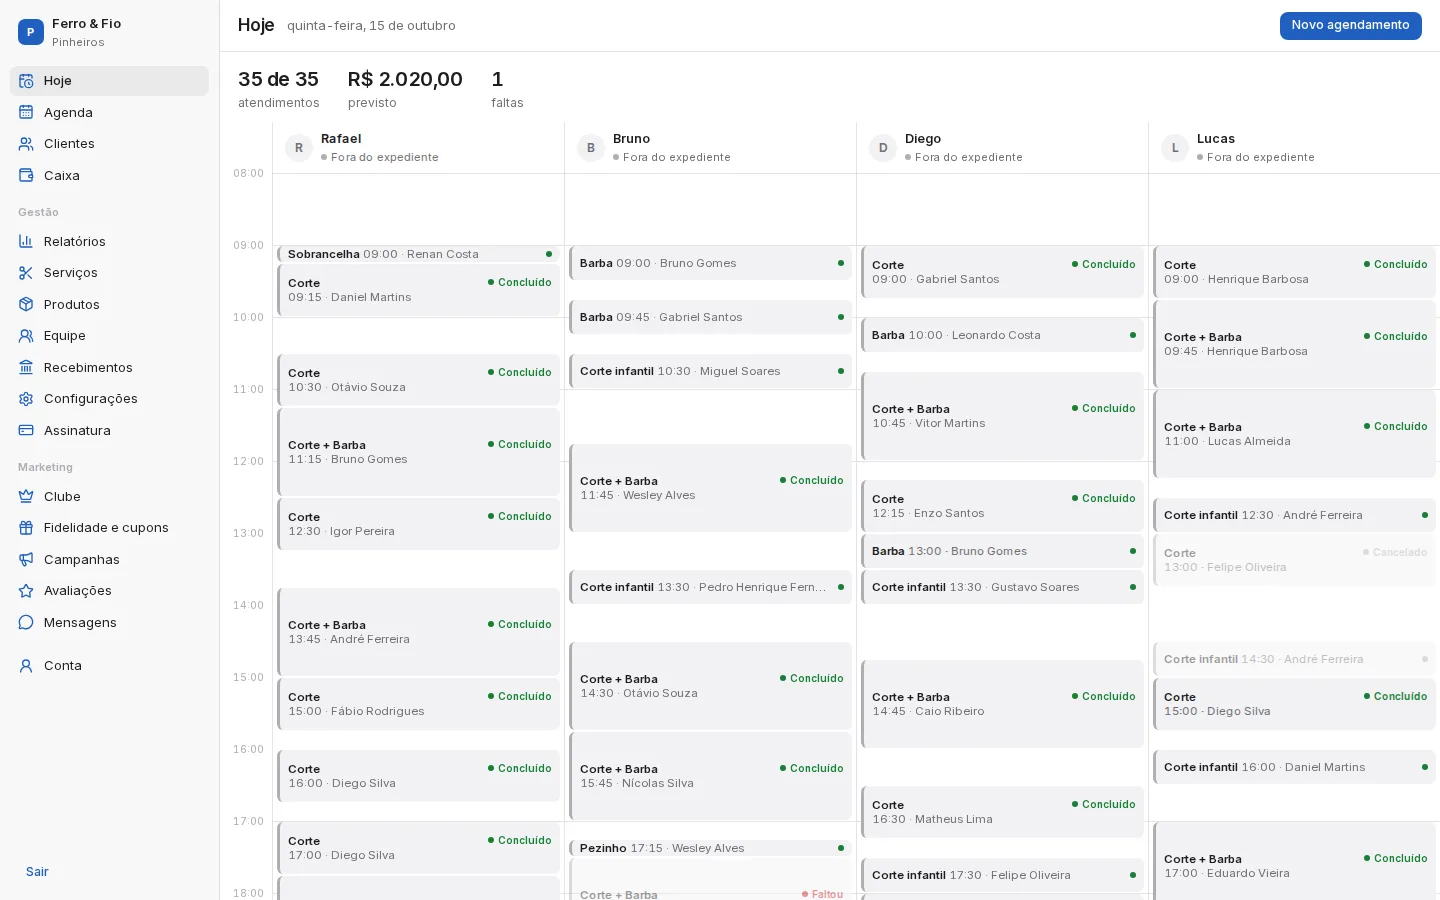
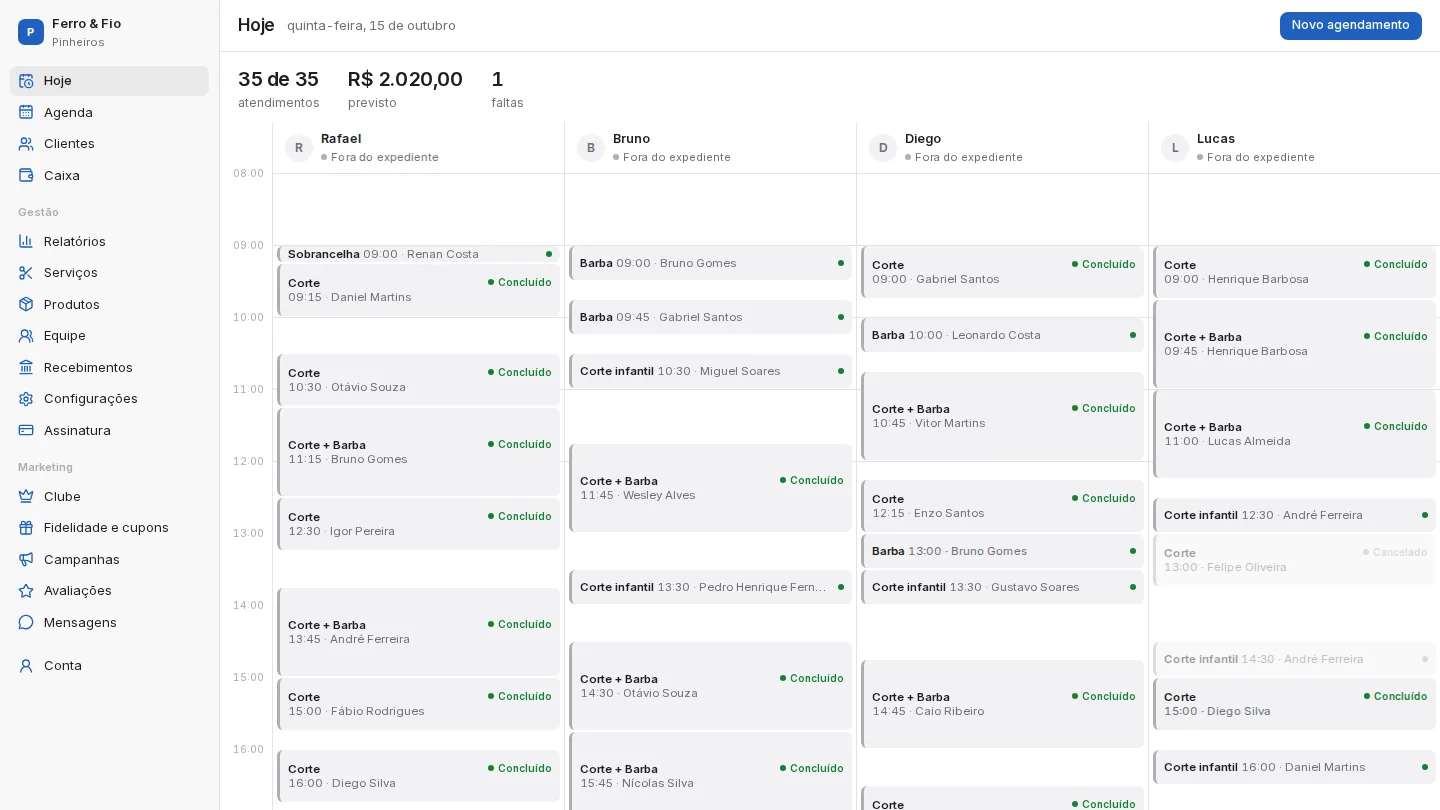
PORTFOLIO | FEAT | modal de projeto em duas colunas sem rolagem e capturas do NavalhaGo e FinanceMy em 16:9

diff --git a/src/components/landing/sections.tsx b/src/components/landing/sections.tsx
@@ -120,12 +120,15 @@ function ProjectModal({ project, onClose }: { project: Project; onClose: () => v
     };
   }, [onClose]);
 
+  // Telas baixas (notebook 768px de altura): texto um degrau menor para tudo caber sem rolar.
+  const short = "[@media(max-height:820px)]";
+
   return (
     <motion.div
       initial={{ opacity: 0 }}
       animate={{ opacity: 1 }}
       exit={{ opacity: 0 }}
-      className="fixed inset-0 z-50 flex items-center justify-center bg-black/50 p-4 backdrop-blur-sm md:p-8"
+      className="fixed inset-0 z-50 flex items-center justify-center bg-black/55 p-4 backdrop-blur-sm md:p-8"
       onClick={onClose}
     >
       <motion.div
@@ -136,44 +139,53 @@ function ProjectModal({ project, onClose }: { project: Project; onClose: () => v
         animate={{ opacity: 1, y: 0, scale: 1 }}
         exit={reduced ? { opacity: 0 } : { opacity: 0, y: 20, scale: 0.98 }}
         transition={{ duration: 0.28, ease: [0.22, 1, 0.36, 1] }}
-        className="max-h-full w-full max-w-3xl overflow-y-auto rounded-3xl border border-line bg-(--landing-card) shadow-2xl shadow-black/30"
+        // lg+: imagem à esquerda, informações à direita, sem rolagem; no celular empilha
+        className="relative max-h-full w-full max-w-3xl overflow-y-auto rounded-3xl border border-line bg-(--landing-card) shadow-2xl shadow-black/30 lg:grid lg:max-h-[92dvh] lg:w-[min(1360px,96vw)] lg:max-w-none lg:grid-cols-[minmax(0,0.95fr)_minmax(0,1.05fr)] lg:overflow-hidden xl:grid-cols-[minmax(0,1.2fr)_minmax(0,1fr)] 2xl:grid-cols-[minmax(0,1.45fr)_minmax(0,1fr)]"
         onClick={(e) => e.stopPropagation()}
       >
+        <button
+          type="button"
+          onClick={onClose}
+          data-cursor="hover"
+          aria-label={t("landing.projects.close")}
+          className="absolute top-3 right-3 z-10 flex h-9 w-9 items-center justify-center rounded-full bg-black/55 text-white backdrop-blur transition-transform hover:scale-105"
+        >
+          <X className="h-4.5 w-4.5" />
+        </button>
+
         {project.image && (
-          <div className="relative aspect-video w-full overflow-hidden border-b border-line bg-fill-1">
-            {/* eslint-disable-next-line @next/next/no-img-element */}
-            <img
-              src={project.image}
-              alt={`${project.name} — ${project.tagline[lang]}`}
-              className="h-full w-full object-contain"
-            />
-            <button
-              type="button"
-              onClick={onClose}
-              data-cursor="hover"
-              aria-label={t("landing.projects.close")}
-              className="absolute top-3 right-3 flex h-9 w-9 items-center justify-center rounded-full bg-black/55 text-white backdrop-blur transition-transform hover:scale-105"
-            >
-              <X className="h-4.5 w-4.5" />
-            </button>
+          <div className="flex items-center justify-center border-b border-line bg-[#0b0c10] lg:border-r lg:border-b-0 lg:p-5 xl:p-8">
+            <div className="relative aspect-video w-full overflow-hidden lg:rounded-xl lg:shadow-2xl lg:shadow-black/50">
+              {/* eslint-disable-next-line @next/next/no-img-element */}
+              <img
+                src={project.image}
+                alt={`${project.name} — ${project.tagline[lang]}`}
+                className="absolute inset-0 h-full w-full object-contain"
+              />
+            </div>
           </div>
         )}
-        <div className="p-6 md:p-8">
+
+        <div className={`flex flex-col p-6 md:p-8 lg:min-h-0 lg:px-7 lg:py-8 lg:pr-12 xl:py-9 ${short}:lg:py-5`}>
           <div className="flex flex-wrap items-center gap-3 font-mono text-[11px] tracking-[0.15em] text-text-lo uppercase">
             <span>
               {project.year} · {project.category === "web" ? "Web" : "Mobile"}
             </span>
             {project.status === "wip" && <WipBadge />}
           </div>
-          <h3 className="mt-3 font-display text-3xl font-semibold tracking-tight">{project.name}</h3>
+          <h3 className={`mt-3 font-display text-3xl font-semibold tracking-tight lg:text-4xl ${short}:lg:text-3xl`}>
+            {project.name}
+          </h3>
           <p className="mt-1 text-sm text-text-lo">{project.tagline[lang]}</p>
 
-          <p className="mt-5 leading-relaxed text-text-lo">{project.description[lang]}</p>
+          <p className={`mt-5 leading-relaxed text-text-lo lg:text-[15px] ${short}:lg:mt-3 ${short}:lg:text-sm ${short}:lg:leading-normal`}>
+            {project.description[lang]}
+          </p>
 
           {project.highlights && (
-            <ul className="mt-6 space-y-2.5">
+            <ul className={`mt-5 space-y-2 ${short}:lg:mt-3 ${short}:lg:space-y-1`}>
               {project.highlights.map((h, i) => (
-                <li key={i} className="flex gap-2.5 text-sm leading-relaxed text-text-lo">
+                <li key={i} className={`flex gap-2.5 text-sm leading-relaxed text-text-lo ${short}:lg:text-[13px] ${short}:lg:leading-snug`}>
                   <span className="mt-[7px] h-1.5 w-1.5 shrink-0 rounded-full bg-fx" aria-hidden />
                   <span>{h[lang]}</span>
                 </li>
@@ -181,13 +193,13 @@ function ProjectModal({ project, onClose }: { project: Project; onClose: () => v
             </ul>
           )}
 
-          <div className="mt-6 flex flex-wrap gap-1.5">
+          <div className={`mt-5 flex flex-wrap gap-1.5 ${short}:lg:mt-3`}>
             {project.stack.map((s) => (
               <Chip key={s}>{s}</Chip>
             ))}
           </div>
 
-          <div className="mt-8 flex flex-wrap items-center gap-4 border-t border-line pt-6">
+          <div className={`mt-6 flex flex-wrap items-center gap-4 border-t border-line pt-5 lg:mt-auto ${short}:lg:pt-3`}>
             {project.demo && (
               <a
                 href={project.demo}

diff --git a/src/data/projects.ts b/src/data/projects.ts
@@ -84,7 +84,7 @@ const allProjects: Project[] = [
     featured: true,
     stack: ["Next.js", "TypeScript", "Prisma", "PostgreSQL", "Vitest", "Docker"],
     github: "https://github.com/GuiCMoreira/financemy",
-    image: "/projects/financemy.png",
+    image: "/projects/financemy.webp",
     status: "wip",
     tagline: {
       pt: "Controle financeiro self-hosted que mostra em que dia o saldo fica negativo",

diff --git a/docs/specs/2026-10-16-landing-v5-combinacao.md b/docs/specs/2026-10-16-landing-v5-combinacao.md
@@ -95,3 +95,6 @@ em tema escuro, claro e 390px; sem scroll lateral; zero erros de console.
 - Eliteh Protect recapturada sem a caixa de cookies (cookies recusados antes do print).
 - Fotos originais em alta: 3x4 no topo e 9:16 (original inteira) em "Além do código", regravadas em webp sem metadados (as originais não tinham GPS).
 - Capturas refeitas em Full HD (1920×1080, escala 1): em 1280×800 os sites usavam o layout de tela menor e os elementos saíam grandes demais. Barra de rolagem dos sites escondida antes do print; GuiOS capturado em português. Molduras voltaram para 16:9. NavalhaGo e FinanceMy não estão publicados, então seguem com as capturas oficiais dos READMEs (aparecem inteiras, com faixas finas nas laterais).
+- Cards de projeto com a mesma altura (frase reservando 2 linhas, linha do ano com altura fixa).
+- NavalhaGo e FinanceMy recortados em 16:9 a partir do topo (pedido: preencher o card; cortar embaixo pode).
+- Modal do projeto em duas colunas (imagem à esquerda, informações à direita) a partir de 1024px; verificado sem rolagem para os 6 projetos em 1920×1080, 1536×864, 1440×900, 1366×768, 1280×720 e 1024×768. No celular continua empilhado (sem largura para duas colunas).
